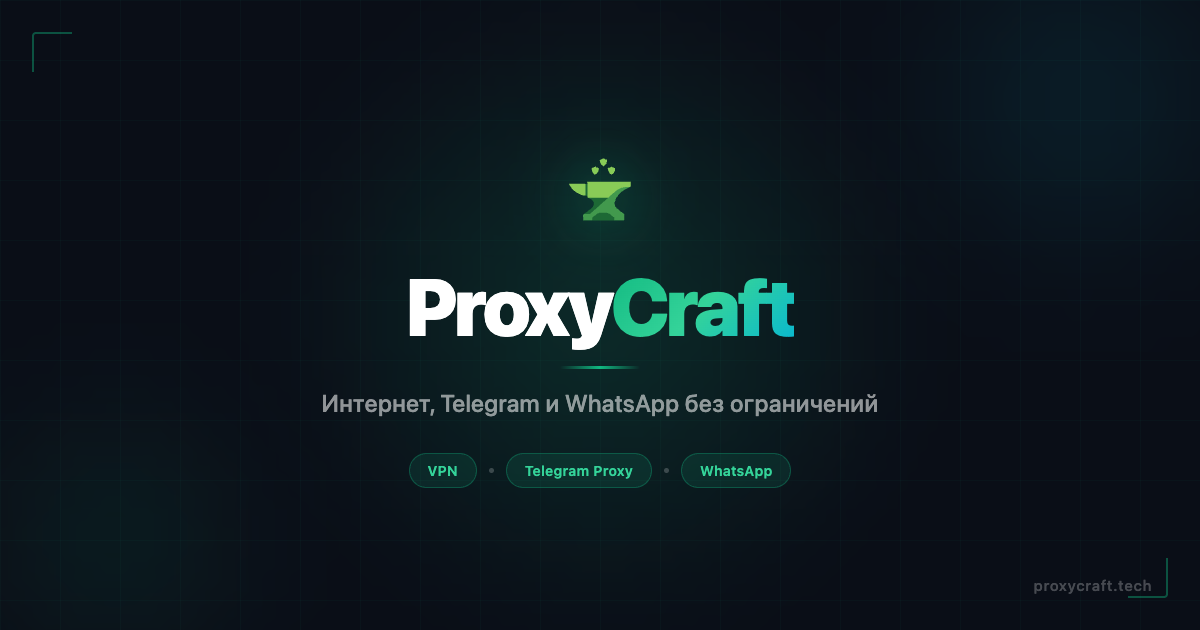
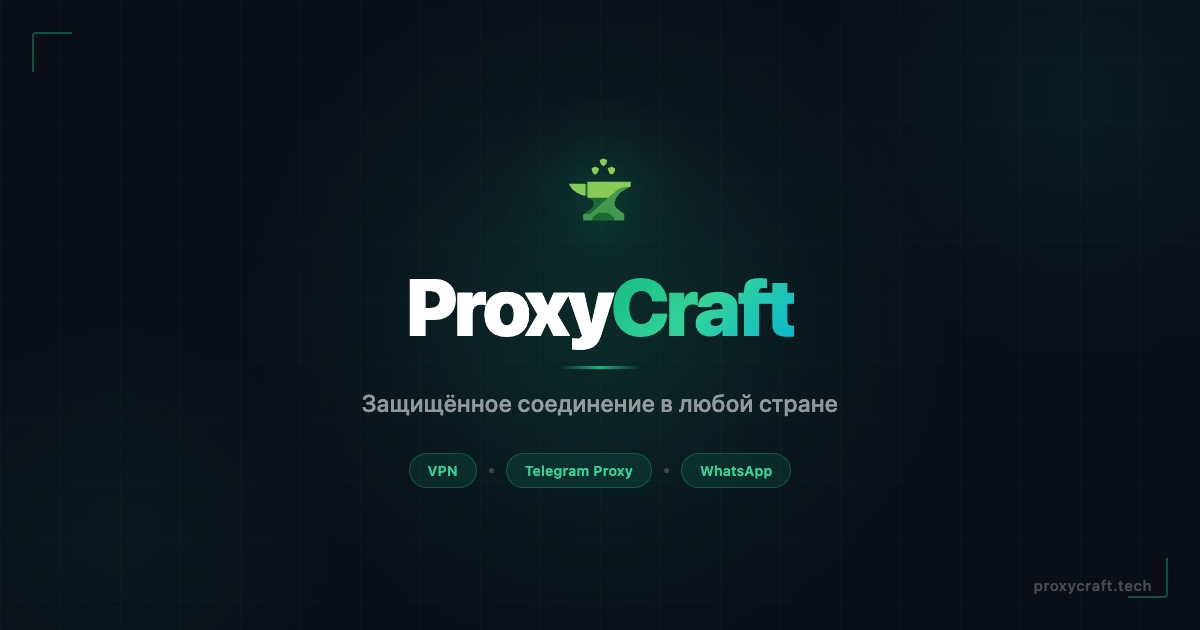
fix(landing): neutralize meta copy — remove VLESS, bypass references
- Remove "VLESS", "обход блокировок", "свобода интернета"
- Replace with neutral: "Защищённый интернет", "безопасное соединение"
- Update og:title, og:description, <title>, meta description (ru + en)
- Regenerate og-image.png with new tagline

Changed region(s): [[0.2467, 0.6032, 0.74, 0.6635]]

diff --git a/landing/public/og-preview.html b/landing/public/og-preview.html
@@ -213,7 +213,7 @@
 
     <div class="title">Proxy<span>Craft</span></div>
     <div class="divider"></div>
-    <div class="tagline">Интернет, Telegram и WhatsApp без ограничений</div>
+    <div class="tagline">Защищённое соединение в любой стране</div>
     <div class="chips">
       <div class="chip">VPN</div>
       <div class="chip-dot"></div>
